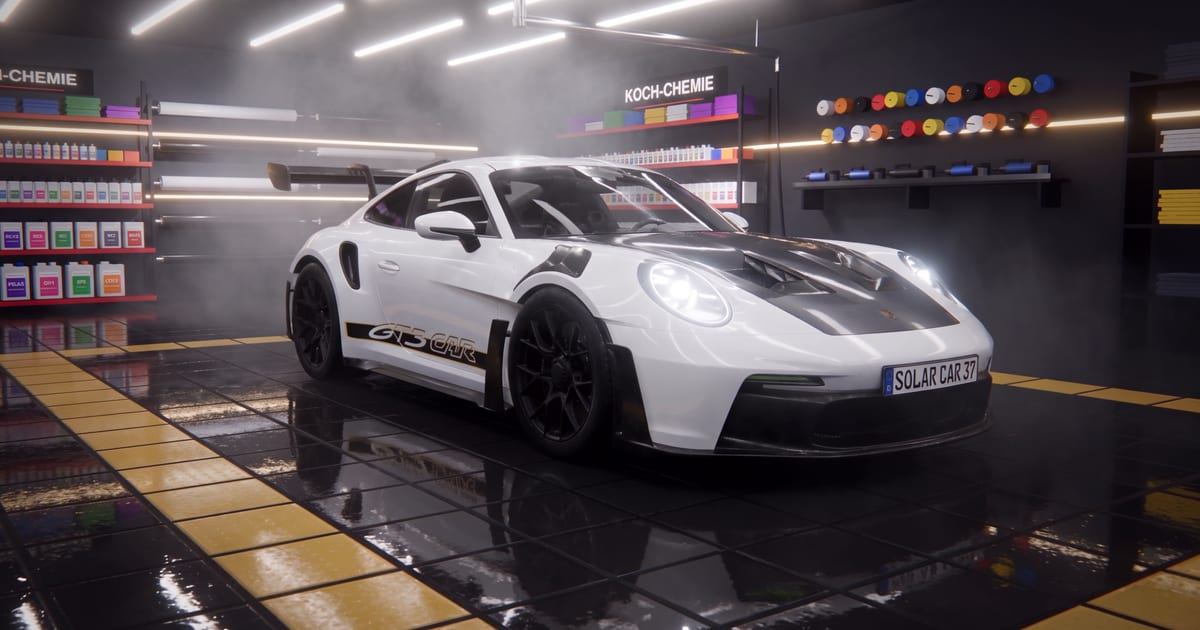
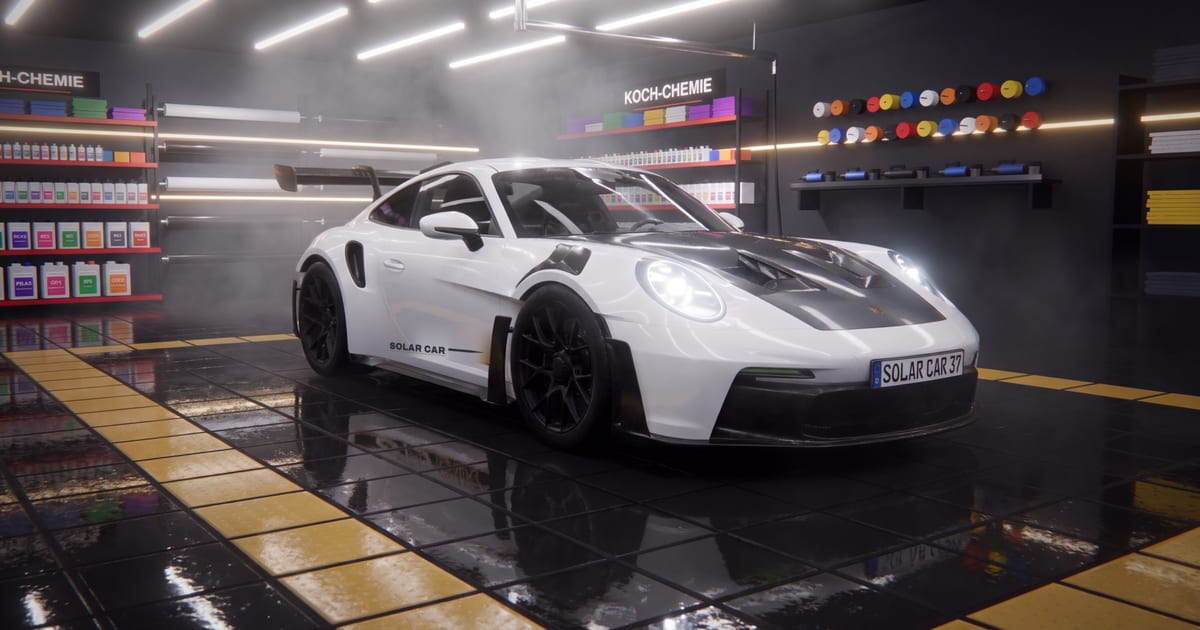
Accueil : image de partage et image finale tirées de la photo retouchée (vrai marquage SOLAR CAR)
Le plan 8 horizontal actuel montre un lettrage « GT3 CAR » : en attendant qu'il soit refait,
la carte de partage et l'image du chapitre final viennent de la photo finale corrigée.

Claude-Session: https://claude.ai/code/session_01PouQQ65ZePYgdTVWm5rWaH

diff --git a/content/film.js b/content/film.js
@@ -14,8 +14,10 @@ export const film = {
   // length of the video (s) and second shown at the very top of the page
   duration: 46.125,
   start: 0,
-  // second of the film used for the home page's share card (public/img/film/og.jpg, 1200×630)
-  share: 45,
+  // the home page's share card (public/img/film/og.jpg, 1200×630): a second of the film, or a
+  // picture file. For now the retouched last picture: the wide shot 8 shows a wrong « GT3 CAR »
+  // lettering (docs/FILM-V5.md); back to a second (45) once shot 8 is generated again
+  share: 'assets-src/film/final-corrige.jpg',
   // pictures per second of the film (the generated shots are 24)
   fps: 24,
   // a key frame every `gop` pictures: stepping back costs at most that many decoded pictures
@@ -83,7 +85,8 @@ export const film = {
       readout: { label: 'Lumière transmise à l’arrière', unit: '%', keys: [[30.4, 70], [33.2, 5]] },
     },
     { id: 'stars', tab: 'Ciel étoilé', from: 37.7, to: 41.6, still: 40, alt: 'Habitacle de la Porsche sous un ciel étoilé en fibre optique, sièges baquets au premier plan, étoiles filantes' },
-    { id: 'final', from: 43, to: 46.125, still: 45, alt: 'Porsche 911 GT3 RS blanche de trois quarts avant dans le garage, phares allumés, capot carbone, marquage SOLAR CAR et plaque SOLAR CAR 37' },
+    // wideStill: the retouched last picture (true SOLAR CAR lettering) until shot 8 is redone
+    { id: 'final', from: 43, to: 46.125, still: 45, wideStill: 'assets-src/film/final-corrige.jpg', alt: 'Porsche 911 GT3 RS blanche de trois quarts avant dans le garage, phares allumés, capot carbone, marquage SOLAR CAR et plaque SOLAR CAR 37' },
   ],
 };
 
